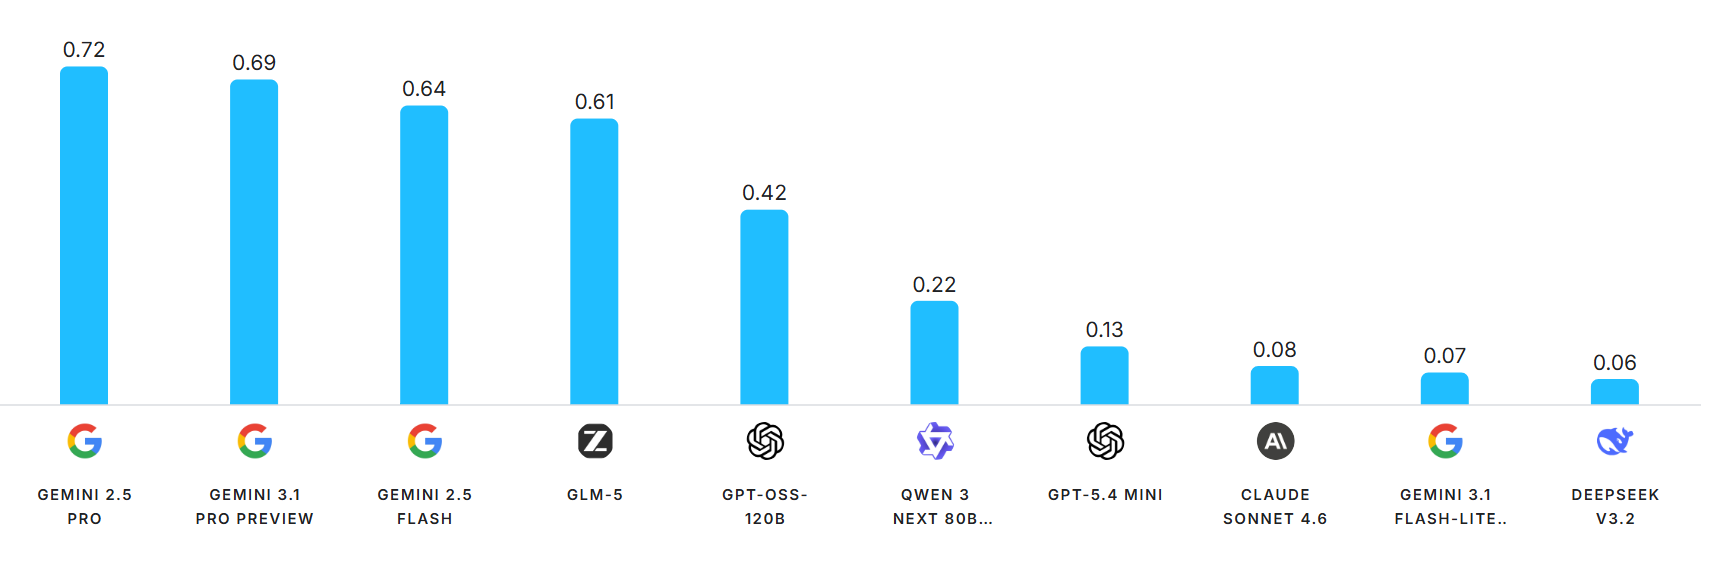
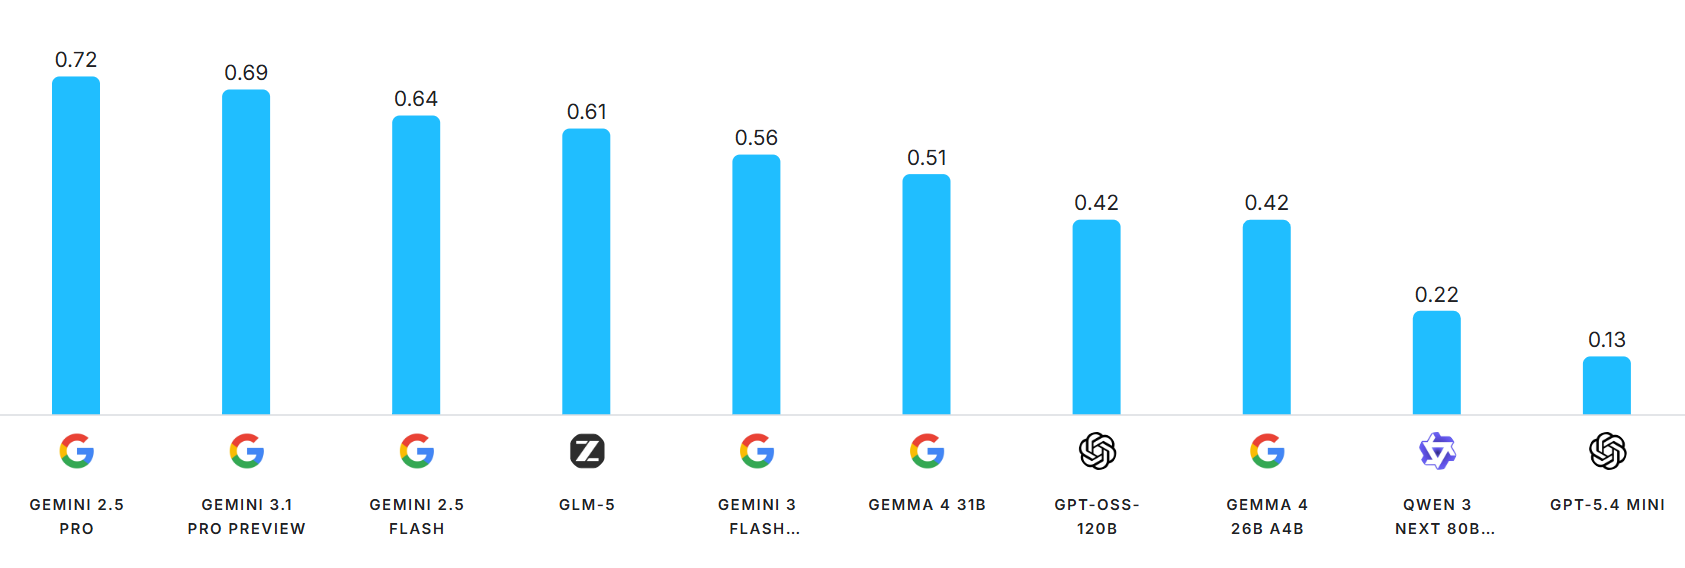
upd-final

diff --git a/results_analysis.py b/results_analysis.py
@@ -1,0 +1,40 @@
+import pandas as pd
+
+df = pd.read_csv("assets/armanzhalgasbayev_distraction-agnostic-bench_leaderboard.csv")
+needed_cols = ["Model", "Task_Name", "Numerical_Result"]
+df = df[needed_cols]
+print("Unique models list: ", df["Model"].unique().tolist())
+
+res_leaderboard = (
+    df.groupby(by="Model")["Numerical_Result"]
+    .mean()
+    .sort_values(ascending=False)
+    .to_frame(name="Mean_score")
+)
+res_leaderboard["Mean_score"] = res_leaderboard["Mean_score"].round(3)
+print(res_leaderboard.to_markdown())
+
+tasks_max_scores = (
+    df
+    .groupby("Task_Name")
+    .agg(
+        Max_Score=("Numerical_Result", "max"),
+        Models=("Model", lambda m: list(m))
+    )
+    .reset_index()
+)
+# keep only models that achieved the max
+tasks_max_scores["Models_Solved"] = tasks_max_scores.apply(
+    lambda row: df[
+        (df["Task_Name"] == row["Task_Name"]) &
+        (df["Numerical_Result"] == row["Max_Score"])
+    ]["Model"].tolist(),
+    axis=1
+)
+tasks_max_scores["Num_Models_Solved"] = tasks_max_scores["Models_Solved"].apply(len)
+tasks_max_scores = tasks_max_scores.sort_values(
+    by=["Max_Score", "Num_Models_Solved"],
+    ascending=[True, True]
+).reset_index(drop=True)
+tasks_max_scores["Task_Name"] = tasks_max_scores["Task_Name"].str.replace("Distraction agnostic main task ", "")
+print(tasks_max_scores.to_markdown())

diff --git a/README.md b/README.md
@@ -1,16 +1,58 @@
 # Distraction Agnostic Bench
 
+> This benchmark methodology can be freely used to generate comprehensive tests / benchmarks for assessing the attention control cognitive abilities of models.
+
 ["Measuring Progress Toward AGI - Cognitive Abilities" Hackathon by Google DeepMind](https://www.kaggle.com/competitions/kaggle-measuring-agi)
 
 *Attention Track | April, 2026*
 
-* **Community Benchmark Link:** https://www.kaggle.com/benchmarks/armanzhalgasbayev/distraction-agnostic-bench
+* **Community Benchmark Link:** https://www.kaggle.com/benchmarks/armanzhalgasbayev/distraction-agnostic-bench 
 
 * **Kaggle Bench-Task Generation (Code):** https://www.kaggle.com/code/armanzhalgasbayev/distraction-agnostic-bench-18-tasks-gen
 
-We tested 12 models on 18 tasks of our distraction-agnostic-benchmark, and got this leaderboard:
+**We tested 16 models on 18 tasks of our `distraction-agnostic-benchmark`, and got this leaderboard (by models average peformance):**
 
-![leaderboard](assets/leaderboard.png)
+| Model                         |   Mean_score |
+|:------------------------------|-------------:|
+| gemini-2.5-pro                |        0.722 |
+| gemini-3.1-pro-preview        |        0.694 |
+| gemini-2.5-flash              |        0.639 |
+| glm-5                         |        0.611 |
+| gemini-3-flash-preview        |        0.556 |
+| gemma-4-31b-it                |        0.514 |
+| gemma-4-26b-a4b-it            |        0.417 |
+| gpt-oss-120b                  |        0.417 |
+| qwen3-next-80b-a3b-thinking   |        0.222 |
+| gpt-5.4-mini-2026-03-17       |        0.125 |
+| claude-opus-4-5-20251101      |        0.097 |
+| claude-sonnet-4-6-default     |        0.083 |
+| gemini-3.1-flash-lite-preview |        0.069 |
+| deepseek-v3.2                 |        0.056 |
+| gpt-5.4-nano-2026-03-17       |        0.042 |
+| claude-opus-4-6-default       |        0     |
+
+**Max scores per task leaderboard:**
+
+|    | Task_Name          |   Max_Score | Models                                                                                                                                                                                                                                                                                                                                                                                 | Models_Solved                                                                                                                                                 |   Num_Models_Solved |
+|---:|:-------------------|------------:|:---------------------------------------------------------------------------------------------------------------------------------------------------------------------------------------------------------------------------------------------------------------------------------------------------------------------------------------------------------------------------------------|:--------------------------------------------------------------------------------------------------------------------------------------------------------------|--------------------:|
+|  0 | K=4 N=60 (Level-2) |        0.5  | ['gemini-2.5-pro', 'gemini-3.1-pro-preview', 'gemini-2.5-flash', 'glm-5', 'gemini-3-flash-preview', 'gemma-4-31b-it', 'gpt-oss-120b', 'gemma-4-26b-a4b-it', 'qwen3-next-80b-a3b-thinking', 'gpt-5.4-mini-2026-03-17', 'claude-opus-4-5-20251101', 'claude-sonnet-4-6-default', 'gemini-3.1-flash-lite-preview', 'deepseek-v3.2', 'gpt-5.4-nano-2026-03-17', 'claude-opus-4-6-default'] | ['gemini-2.5-pro', 'gemini-3.1-pro-preview', 'glm-5', 'gemini-3-flash-preview', 'gpt-oss-120b']                                                               |                   5 |
+|  1 | K=6 N=72 (Level-3) |        0.5  | ['gemini-2.5-pro', 'gemini-3.1-pro-preview', 'gemini-2.5-flash', 'glm-5', 'gemini-3-flash-preview', 'gemma-4-31b-it', 'gpt-oss-120b', 'gemma-4-26b-a4b-it', 'qwen3-next-80b-a3b-thinking', 'gpt-5.4-mini-2026-03-17', 'claude-opus-4-5-20251101', 'claude-sonnet-4-6-default', 'gemini-3.1-flash-lite-preview', 'deepseek-v3.2', 'gpt-5.4-nano-2026-03-17', 'claude-opus-4-6-default'] | ['gemini-2.5-pro', 'gemini-3.1-pro-preview', 'gemini-2.5-flash', 'gemini-3-flash-preview', 'gpt-oss-120b']                                                    |                   5 |
+|  2 | K=2 N=48 (Level-1) |        0.5  | ['gemini-2.5-pro', 'gemini-3.1-pro-preview', 'gemini-2.5-flash', 'glm-5', 'gemini-3-flash-preview', 'gemma-4-31b-it', 'gpt-oss-120b', 'gemma-4-26b-a4b-it', 'qwen3-next-80b-a3b-thinking', 'gpt-5.4-mini-2026-03-17', 'claude-opus-4-5-20251101', 'claude-sonnet-4-6-default', 'gemini-3.1-flash-lite-preview', 'deepseek-v3.2', 'gpt-5.4-nano-2026-03-17', 'claude-opus-4-6-default'] | ['gemini-2.5-pro', 'gemini-3.1-pro-preview', 'gemini-2.5-flash', 'gemini-3-flash-preview', 'gpt-oss-120b', 'gemma-4-26b-a4b-it']                              |                   6 |
+|  3 | K=4 N=72 (Level-2) |        0.5  | ['gemini-2.5-pro', 'gemini-3.1-pro-preview', 'gemini-2.5-flash', 'glm-5', 'gemini-3-flash-preview', 'gemma-4-31b-it', 'gpt-oss-120b', 'gemma-4-26b-a4b-it', 'qwen3-next-80b-a3b-thinking', 'gpt-5.4-mini-2026-03-17', 'claude-opus-4-5-20251101', 'claude-sonnet-4-6-default', 'gemini-3.1-flash-lite-preview', 'deepseek-v3.2', 'gpt-5.4-nano-2026-03-17', 'claude-opus-4-6-default'] | ['gemini-2.5-pro', 'gemini-3.1-pro-preview', 'gemini-2.5-flash', 'gemini-3-flash-preview', 'gemma-4-31b-it', 'gpt-oss-120b']                                  |                   6 |
+|  4 | K=2 N=72 (Level-1) |        0.5  | ['gemini-2.5-pro', 'gemini-3.1-pro-preview', 'gemini-2.5-flash', 'glm-5', 'gemini-3-flash-preview', 'gemma-4-31b-it', 'gpt-oss-120b', 'gemma-4-26b-a4b-it', 'qwen3-next-80b-a3b-thinking', 'gpt-5.4-mini-2026-03-17', 'claude-opus-4-5-20251101', 'claude-sonnet-4-6-default', 'gemini-3.1-flash-lite-preview', 'deepseek-v3.2', 'gpt-5.4-nano-2026-03-17', 'claude-opus-4-6-default'] | ['gemini-2.5-pro', 'gemini-3.1-pro-preview', 'gemini-2.5-flash', 'gemini-3-flash-preview', 'gemma-4-31b-it', 'gpt-oss-120b', 'gemini-3.1-flash-lite-preview'] |                   7 |
+|  5 | K=4 N=36 (Level-2) |        0.5  | ['gemini-2.5-pro', 'gemini-3.1-pro-preview', 'gemini-2.5-flash', 'glm-5', 'gemini-3-flash-preview', 'gemma-4-31b-it', 'gpt-oss-120b', 'gemma-4-26b-a4b-it', 'qwen3-next-80b-a3b-thinking', 'gpt-5.4-mini-2026-03-17', 'claude-opus-4-5-20251101', 'claude-sonnet-4-6-default', 'gemini-3.1-flash-lite-preview', 'deepseek-v3.2', 'gpt-5.4-nano-2026-03-17', 'claude-opus-4-6-default'] | ['gemini-2.5-pro', 'gemini-3.1-pro-preview', 'gemini-2.5-flash', 'glm-5', 'gemini-3-flash-preview', 'gemma-4-31b-it', 'gpt-oss-120b']                         |                   7 |
+|  6 | K=2 N=60 (Level-1) |        0.75 | ['gemini-2.5-pro', 'gemini-3.1-pro-preview', 'gemini-2.5-flash', 'glm-5', 'gemini-3-flash-preview', 'gemma-4-31b-it', 'gpt-oss-120b', 'gemma-4-26b-a4b-it', 'qwen3-next-80b-a3b-thinking', 'gpt-5.4-mini-2026-03-17', 'claude-opus-4-5-20251101', 'claude-sonnet-4-6-default', 'gemini-3.1-flash-lite-preview', 'deepseek-v3.2', 'gpt-5.4-nano-2026-03-17', 'claude-opus-4-6-default'] | ['glm-5']                                                                                                                                                     |                   1 |
+|  7 | K=4 N=48 (Level-2) |        0.75 | ['gemini-2.5-pro', 'gemini-3.1-pro-preview', 'gemini-2.5-flash', 'glm-5', 'gemini-3-flash-preview', 'gemma-4-31b-it', 'gpt-oss-120b', 'gemma-4-26b-a4b-it', 'qwen3-next-80b-a3b-thinking', 'gpt-5.4-mini-2026-03-17', 'claude-opus-4-5-20251101', 'claude-sonnet-4-6-default', 'gemini-3.1-flash-lite-preview', 'deepseek-v3.2', 'gpt-5.4-nano-2026-03-17', 'claude-opus-4-6-default'] | ['glm-5']                                                                                                                                                     |                   1 |
+|  8 | K=2 N=36 (Level-1) |        1    | ['gemini-2.5-pro', 'gemini-3.1-pro-preview', 'gemini-2.5-flash', 'glm-5', 'gemini-3-flash-preview', 'gemma-4-31b-it', 'gpt-oss-120b', 'gemma-4-26b-a4b-it', 'qwen3-next-80b-a3b-thinking', 'gpt-5.4-mini-2026-03-17', 'claude-opus-4-5-20251101', 'claude-sonnet-4-6-default', 'gemini-3.1-flash-lite-preview', 'deepseek-v3.2', 'gpt-5.4-nano-2026-03-17', 'claude-opus-4-6-default'] | ['gemini-2.5-flash']                                                                                                                                          |                   1 |
+|  9 | K=6 N=48 (Level-3) |        1    | ['gemini-2.5-pro', 'gemini-3.1-pro-preview', 'gemini-2.5-flash', 'glm-5', 'gemini-3-flash-preview', 'gemma-4-31b-it', 'gpt-oss-120b', 'gemma-4-26b-a4b-it', 'qwen3-next-80b-a3b-thinking', 'gpt-5.4-mini-2026-03-17', 'claude-opus-4-5-20251101', 'claude-sonnet-4-6-default', 'gemini-3.1-flash-lite-preview', 'deepseek-v3.2', 'gpt-5.4-nano-2026-03-17', 'claude-opus-4-6-default'] | ['gemini-2.5-pro']                                                                                                                                            |                   1 |
+| 10 | K=6 N=60 (Level-3) |        1    | ['gemini-2.5-pro', 'gemini-3.1-pro-preview', 'gemini-2.5-flash', 'glm-5', 'gemini-3-flash-preview', 'gemma-4-31b-it', 'gpt-oss-120b', 'gemma-4-26b-a4b-it', 'qwen3-next-80b-a3b-thinking', 'gpt-5.4-mini-2026-03-17', 'claude-opus-4-5-20251101', 'claude-sonnet-4-6-default', 'gemini-3.1-flash-lite-preview', 'deepseek-v3.2', 'gpt-5.4-nano-2026-03-17', 'claude-opus-4-6-default'] | ['gemini-3.1-pro-preview']                                                                                                                                    |                   1 |
+| 11 | K=6 N=36 (Level-3) |        1    | ['gemini-2.5-pro', 'gemini-3.1-pro-preview', 'gemini-2.5-flash', 'glm-5', 'gemini-3-flash-preview', 'gemma-4-31b-it', 'gpt-oss-120b', 'gemma-4-26b-a4b-it', 'qwen3-next-80b-a3b-thinking', 'gpt-5.4-mini-2026-03-17', 'claude-opus-4-5-20251101', 'claude-sonnet-4-6-default', 'gemini-3.1-flash-lite-preview', 'deepseek-v3.2', 'gpt-5.4-nano-2026-03-17', 'claude-opus-4-6-default'] | ['gemini-2.5-pro', 'gemini-3.1-pro-preview']                                                                                                                  |                   2 |
+| 12 | K=2 N=24 (Level-1) |        1    | ['gemini-2.5-pro', 'gemini-3.1-pro-preview', 'gemini-2.5-flash', 'glm-5', 'gemini-3-flash-preview', 'gemma-4-31b-it', 'gpt-oss-120b', 'gemma-4-26b-a4b-it', 'qwen3-next-80b-a3b-thinking', 'gpt-5.4-mini-2026-03-17', 'claude-opus-4-5-20251101', 'claude-sonnet-4-6-default', 'gemini-3.1-flash-lite-preview', 'deepseek-v3.2', 'gpt-5.4-nano-2026-03-17', 'claude-opus-4-6-default'] | ['gemini-2.5-pro', 'gemini-3.1-pro-preview', 'gemini-2.5-flash']                                                                                              |                   3 |
+| 13 | K=4 N=12 (Level-2) |        1    | ['gemini-2.5-pro', 'gemini-3.1-pro-preview', 'gemini-2.5-flash', 'glm-5', 'gemini-3-flash-preview', 'gemma-4-31b-it', 'gpt-oss-120b', 'gemma-4-26b-a4b-it', 'qwen3-next-80b-a3b-thinking', 'gpt-5.4-mini-2026-03-17', 'claude-opus-4-5-20251101', 'claude-sonnet-4-6-default', 'gemini-3.1-flash-lite-preview', 'deepseek-v3.2', 'gpt-5.4-nano-2026-03-17', 'claude-opus-4-6-default'] | ['gemini-2.5-pro', 'gemini-2.5-flash', 'glm-5']                                                                                                               |                   3 |
+| 14 | K=4 N=24 (Level-2) |        1    | ['gemini-2.5-pro', 'gemini-3.1-pro-preview', 'gemini-2.5-flash', 'glm-5', 'gemini-3-flash-preview', 'gemma-4-31b-it', 'gpt-oss-120b', 'gemma-4-26b-a4b-it', 'qwen3-next-80b-a3b-thinking', 'gpt-5.4-mini-2026-03-17', 'claude-opus-4-5-20251101', 'claude-sonnet-4-6-default', 'gemini-3.1-flash-lite-preview', 'deepseek-v3.2', 'gpt-5.4-nano-2026-03-17', 'claude-opus-4-6-default'] | ['gemini-2.5-pro', 'gemini-3.1-pro-preview', 'gemini-2.5-flash', 'gemma-4-26b-a4b-it']                                                                        |                   4 |
+| 15 | K=6 N=12 (Level-3) |        1    | ['gemini-2.5-pro', 'gemini-3.1-pro-preview', 'gemini-2.5-flash', 'glm-5', 'gemini-3-flash-preview', 'gemma-4-31b-it', 'gpt-oss-120b', 'gemma-4-26b-a4b-it', 'qwen3-next-80b-a3b-thinking', 'gpt-5.4-mini-2026-03-17', 'claude-opus-4-5-20251101', 'claude-sonnet-4-6-default', 'gemini-3.1-flash-lite-preview', 'deepseek-v3.2', 'gpt-5.4-nano-2026-03-17', 'claude-opus-4-6-default'] | ['gemini-2.5-pro', 'gemini-3.1-pro-preview', 'gemini-2.5-flash', 'glm-5']                                                                                     |                   4 |
+| 16 | K=6 N=24 (Level-3) |        1    | ['gemini-2.5-pro', 'gemini-3.1-pro-preview', 'gemini-2.5-flash', 'glm-5', 'gemini-3-flash-preview', 'gemma-4-31b-it', 'gpt-oss-120b', 'gemma-4-26b-a4b-it', 'qwen3-next-80b-a3b-thinking', 'gpt-5.4-mini-2026-03-17', 'claude-opus-4-5-20251101', 'claude-sonnet-4-6-default', 'gemini-3.1-flash-lite-preview', 'deepseek-v3.2', 'gpt-5.4-nano-2026-03-17', 'claude-opus-4-6-default'] | ['gemini-2.5-pro', 'gemini-3.1-pro-preview', 'gemini-3-flash-preview', 'gemma-4-31b-it']                                                                      |                   4 |
+| 17 | K=2 N=12 (Level-1) |        1    | ['gemini-2.5-pro', 'gemini-3.1-pro-preview', 'gemini-2.5-flash', 'glm-5', 'gemini-3-flash-preview', 'gemma-4-31b-it', 'gpt-oss-120b', 'gemma-4-26b-a4b-it', 'qwen3-next-80b-a3b-thinking', 'gpt-5.4-mini-2026-03-17', 'claude-opus-4-5-20251101', 'claude-sonnet-4-6-default', 'gemini-3.1-flash-lite-preview', 'deepseek-v3.2', 'gpt-5.4-nano-2026-03-17', 'claude-opus-4-6-default'] | ['gemini-2.5-pro', 'gemini-3.1-pro-preview', 'gemini-2.5-flash', 'gemini-3-flash-preview', 'gemma-4-31b-it']                                                  |                   5 |
 
 
 While most AI benchmarks focus on "accuracy", this track focuses on "attention" - specifically, how a model manages its limited cognitive resources when processing information.
